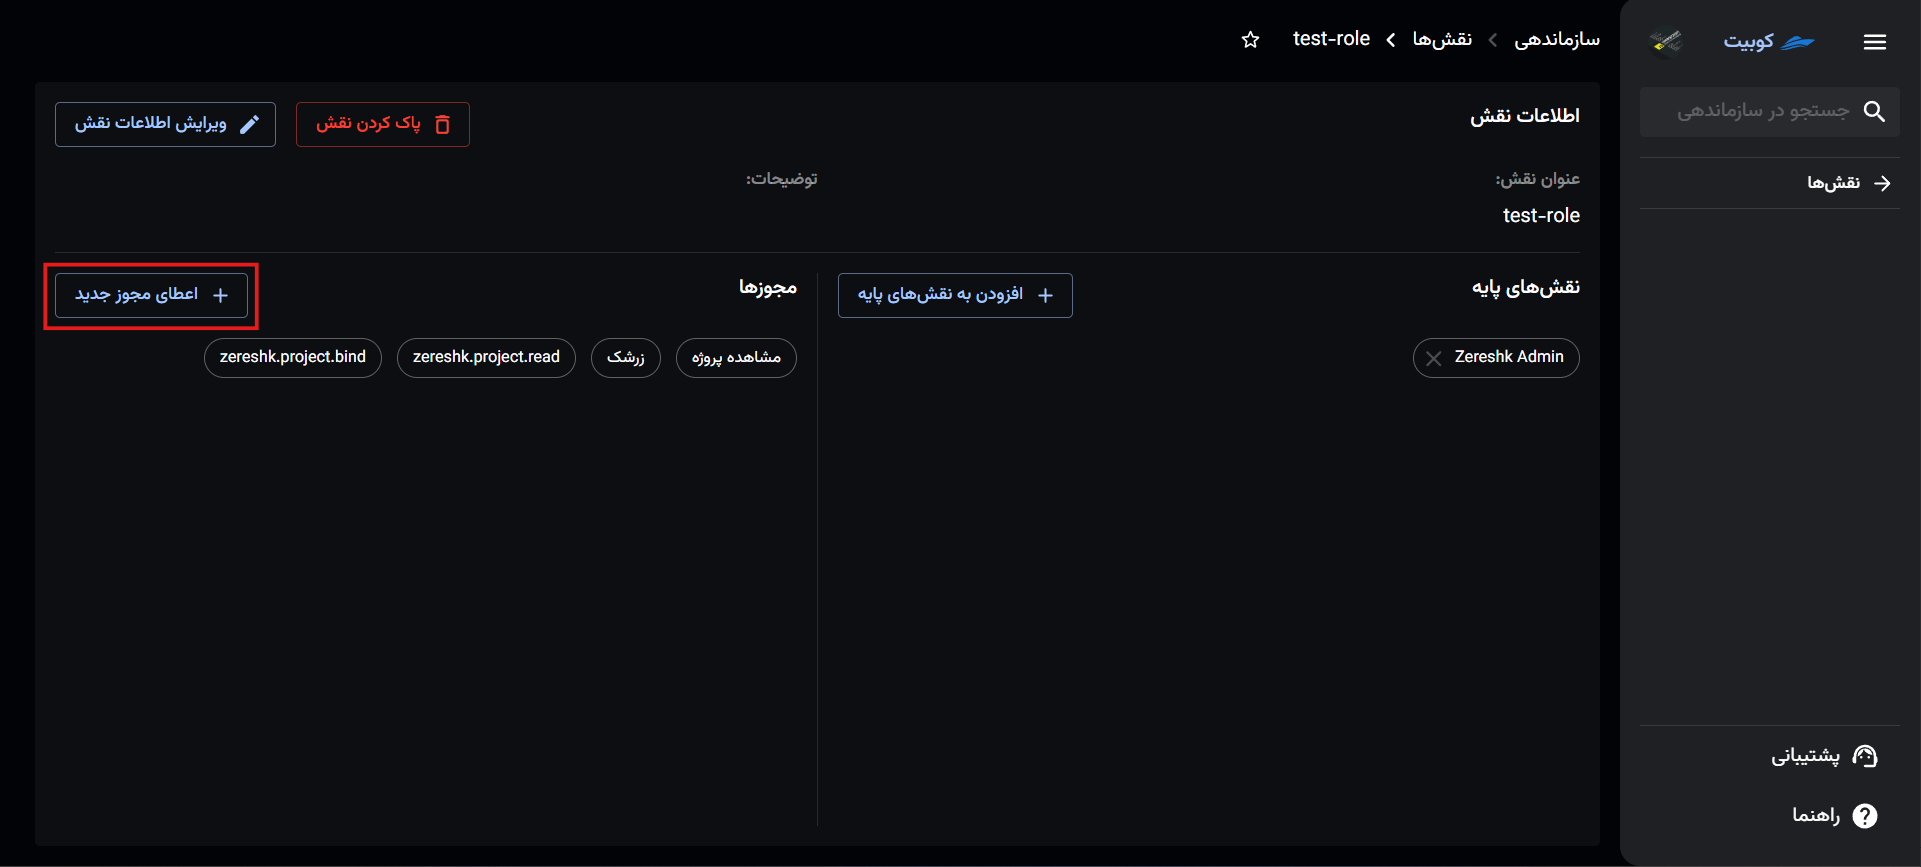
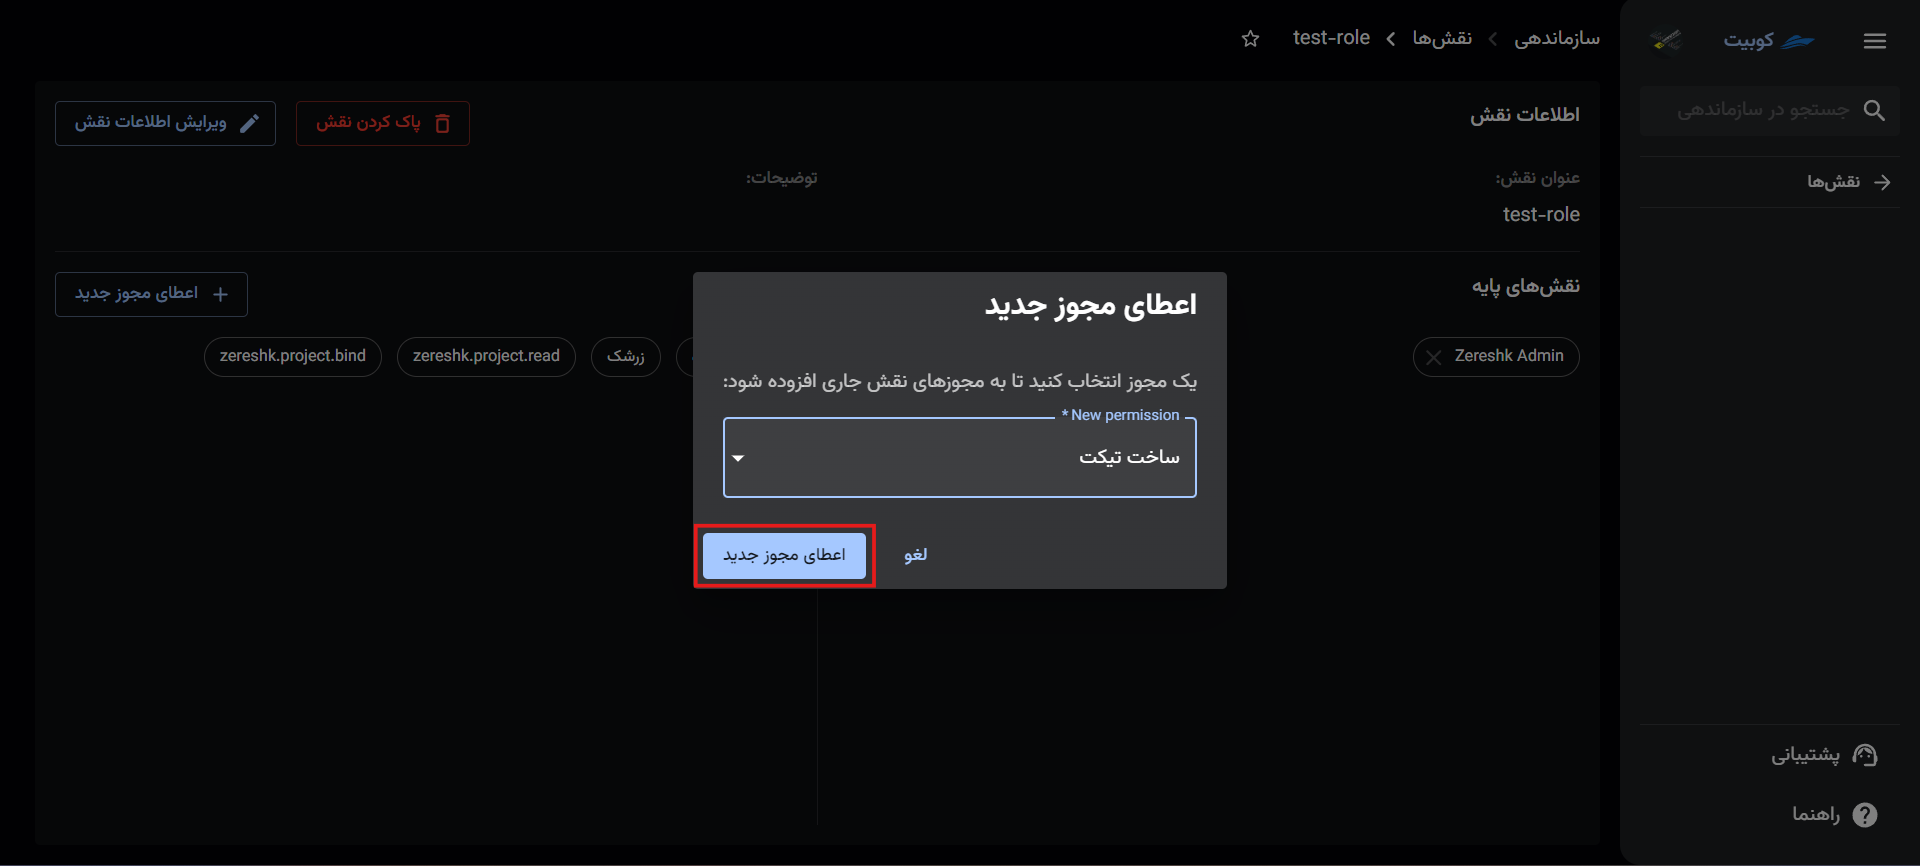
add new images, complete roles journey

diff --git a/docs/fa/organize/iam.md b/docs/fa/organize/iam.md
@@ -9,8 +9,11 @@
 از طریق منوی سمت راست وارد قسمت **نقشها** در بخش **سازماندهی** شوید:
 ![IAM: roles](roles.png)
 
-در این قسمت میتوانید لیست نقش های موجود را مشاهده کنید:
+در این قسمت میتوانید لیست نقشهای موجود را مشاهده کنید:
 ![IAM: roles list](roles-list.png)
+
+با کلیک روی نام هر نقش، به صفحه جزئیات و ویرایش نقش هدایت میشوید:
+![IAM: role details](role-details.png)
 
 ### ساخت نقش جدید
 
@@ -18,44 +21,82 @@
 
 ![IAM: create role btn](create-role-btn.png)
 
-سپسُ باید نام نقش و توضیحات مربوطه را وارد کنید:
+سپس نام نقش و توضیحات مربوطه را وارد کنید:
 ![IAM: create role form](create-role-form.png)
 
-بعد از این مرحله، نقش ایجاد شده است و به صفحه حزئیات نقش هدایت می شوید. نقش ساخته شده نیز از لیست نقش ها قابل مشاهده می باشد، اما این نقش تنها یک نقش خالی است و باید مجوزهای موردنظر را به آن اضافه کنید.
+بعد از این مرحله، نقش ایجاد شده و به صفحه جزئیات نقش هدایت میشوید. همچنین، نقش ساخته شده از لیست نقشها قابل مشاهده است:
+![IAM: new role details](new-role-details.png)
+
+اما این نقش تنها یک نقش خالی است و باید مجوزهای مورد نظر را به آن اضافه کنید. در ادامه به افزودن نقش پایه و اعطای مجوز به نقش ایجاد شده میپردازیم.
+
+#### افزودن نقش پایه به نقش جاری
 
 :::tip[نقش های پایه]
-در این قسمت میتوان نقش جدید را از نقشهای موجود ارثبری کرد. با این کار دسترسیها و مجوزهایی که در نقش ارثبرده شده وجود دارد، به این نقش نیز اختصاص داده خواهد شد.
+در این قسمت میتوان نقش جدید را از نقشهای موجود ارثبری کرد. با این کار، دسترسیها و مجوزهایی که در نقش ارثبرده شده وجود دارد، به این نقش نیز اختصاص داده خواهد شد.
 :::
+
 برای این کار باید در تب **نقشهای پایه**، روی دکمه **افزودن به نقش های پایه** کلیک کنید:
 ![IAM: assign role ro role](assign-role-to-role.png)
 
-سپس از لیست نقش های پایه، نقش موردنظرتان را انتخاب کنید:
+سپس از لیست نقش های پایه، نقش موردنظر را انتخاب کنید:
 ![IAM: add basic role](add-basic-role.png)
 ![IAM: basic roles](basic-roles.png)
 
 پس از تایید و کلیک روی **افزودن نقش پایه**، این نقش به لیست نقشهای سازمان اضافه خواهد شد.
 ![IAM: add basic role btn](add-basic-role-btn.png)
-همانطور که مشاهده می شود، با افزودن نقش پایه به نقش جاری، مجوزهای آن نقش پایه نیز به مجوزهای نقش جاری هم افزوده می شوند:
+
+همانطور که مشاهده میشود، با افزودن نقش پایه به نقش جاری، مجوزهای آن نقش پایه نیز به مجوزهای نقش جاری افزوده میشوند:
 ![IAM: after add basic role](after-add-basic-role.png)
 
 :::tip[انتساب مجوز به نقش]
-علاوه بر مجوزهایی که از طریق نقش پایه به نقش جاری افزوده میشوند، میتوانید به صورت جداگانه نیز مجوزهای موردنظر خود را به نقش اضافه کنید.
+علاوه بر مجوزهایی که از طریق نقش پایه به نقش جاری افزوده میشوند، میتوانید به صورت جداگانه نیز مجوزهای مورد نظر خود را به نقش اضافه کنید.
 :::
+
+#### انتساب مجوز به نقش
+
 برای افزودن مجوز به نقش، روی دکمه **اعطای مجوز جدید** کلیک کنید:
-![IAM: assign per ro role](assign-per-to-role.png)
-![IAM: add per ro role btn](add-per-to-role-btn.png)
+![IAM: add per ro role btn](assign-per-to-role.png)
 
-علاوه بر انتساب نقش، میتوان مجوزهای مورد نظر را نیز به نقش جدید اضافه کرد:
+سپس از لیست مجوزهای موجود، مجوز موردنظر را انتخاب کنید:
+![IAM: add per to role](add-per-to-role.png)
+![IAM: permissions list](permissions-list.png)
 
-_باتن اعطای مجوز جدید_
+پس از تایید و کلیک روی اعطای مجوز جدید، این مجوزهای نقش جاری اضافه خواهد شد:
+![IAM: add per to role btn](add-per-to-role-btn.png)
 
-_لیست مجوزهای موجود_
+![IAM: after add per to role](after-add-per-to-role.png)
 
-:::caution[توجه]
+:::tip[توجه]
 هر نقش، تمام مجوزهای همه نقشهای پایهی خود را به ارث میبرد.
-به عبارت دیگر، با انتخاب یک نقش جدید پایه برای این نقش، در واقع تمام مجوزهای آن نقش را به این نقش افزودهاید!
+به عبارت دیگر، با انتخاب یک نقش جدیدِ پایه برای نقش جدید، در واقع تمام مجوزهای آن نقش را به این نقش افزودهاید!
 بنابراین هر نقش، به اندازه تمام نقشهای پایهی خود، به اضافه مجوزهایی که صراحتاً به آن دادهاید، قدرت دارد.
 :::
+
+:::caution[محدودیت در حذف مجوز]
+توجه داشته باشید که مجوزهایی که به واسطه افزودن نقش پایه به نقش جاری شما افزوده شدهاند، قابل حذف نمیباشند و تنها میتوانید مجوزهایی را که خودتان افزودهاید، از نقش حذف کنید. این کار با کلیک کردن روی آیکون **سطل زباله** کنار نام مجوز، امکانپذیر است:
+![IAM: remove per from role](remove-per-from-role.png)
+:::
+
+### حذف نقش
+
+برای حذف نقش، دو مسیر فراهم شده است: از طریق لیست نقشها و از صفحه جزئیات نقش.
+
+#### شیوه اول: لیست نقش ها
+
+بر روی دکمه سه نقطه نقش موردنظر کلیک کرده و گزینه **پاک کردن** را انتخاب کنید.
+![IAM: remove role from list](remove-role-from-list.png)
+![IAM: confirm remove role](confirm-remove-role.png)
+
+#### شیوه دوم: صفحه جزئئیات نقش
+
+با کلیک روی نام نقش از لیست نقشها، به صفحه جزئیات وارد شوید و سپس روی دکمه **پاک کردن نقش** کلیک کنید:
+![IAM: remove role from details](remove-role-from-details.png)
+![IAM: confirm remove role details](confirm-remove-role-details.png)
+
+### ویرایش اطلاعات نقش
+
+برای ویرایش نام و توضیحات نقش، روی دکمه **ویرایش اطلاعات نقش** کلیک کنید و اطلاعات جدید را وارد کنید. با کلیک روی دکمه **ویرایش** تغییرات شما اعمال میشوند:
+![IAM: edit role info](edit-role-info.png)
 
 ## تنظیمات گروه ها
 
